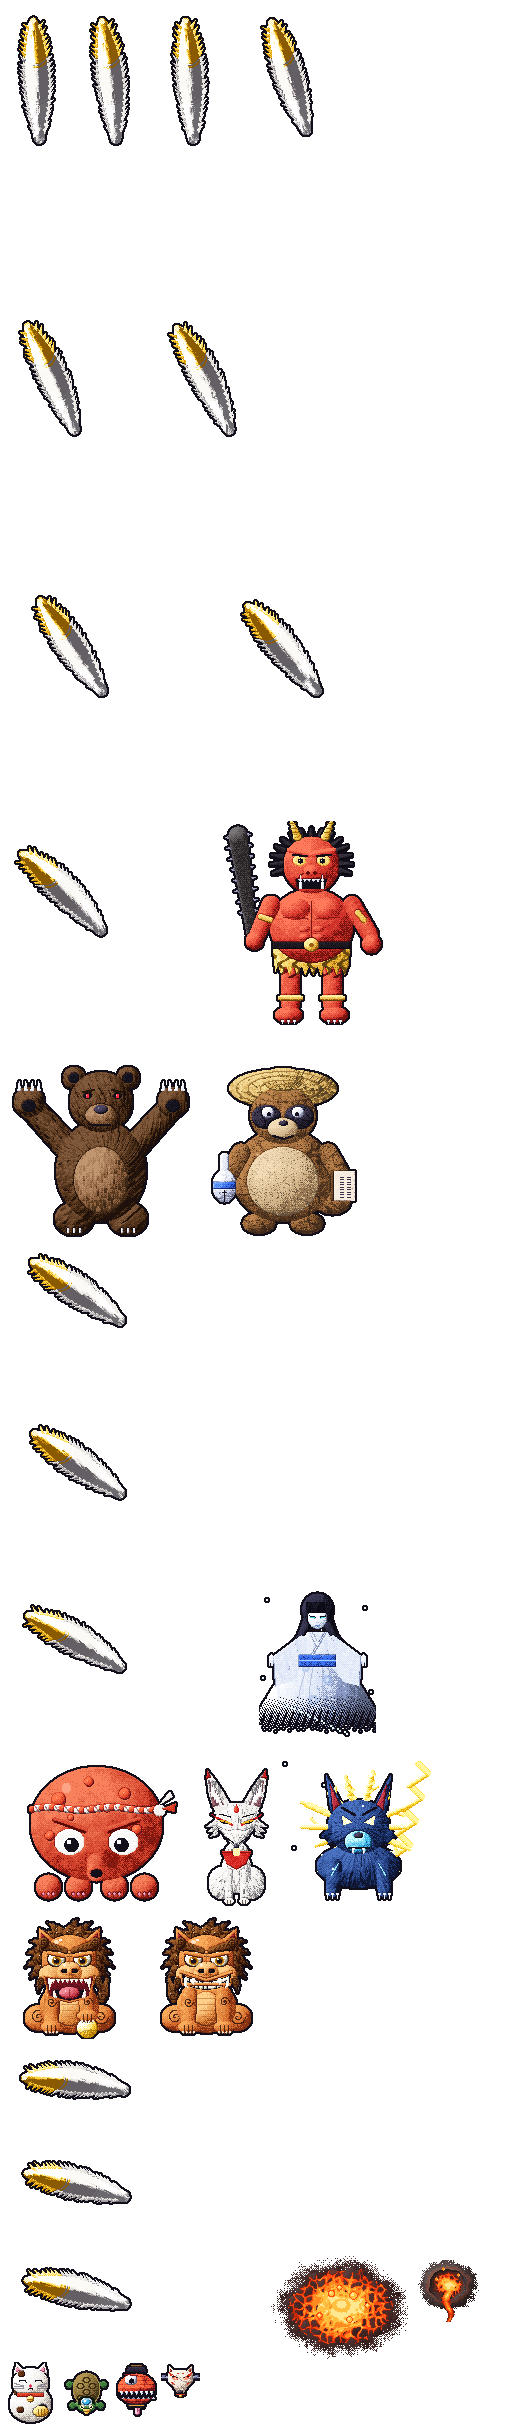
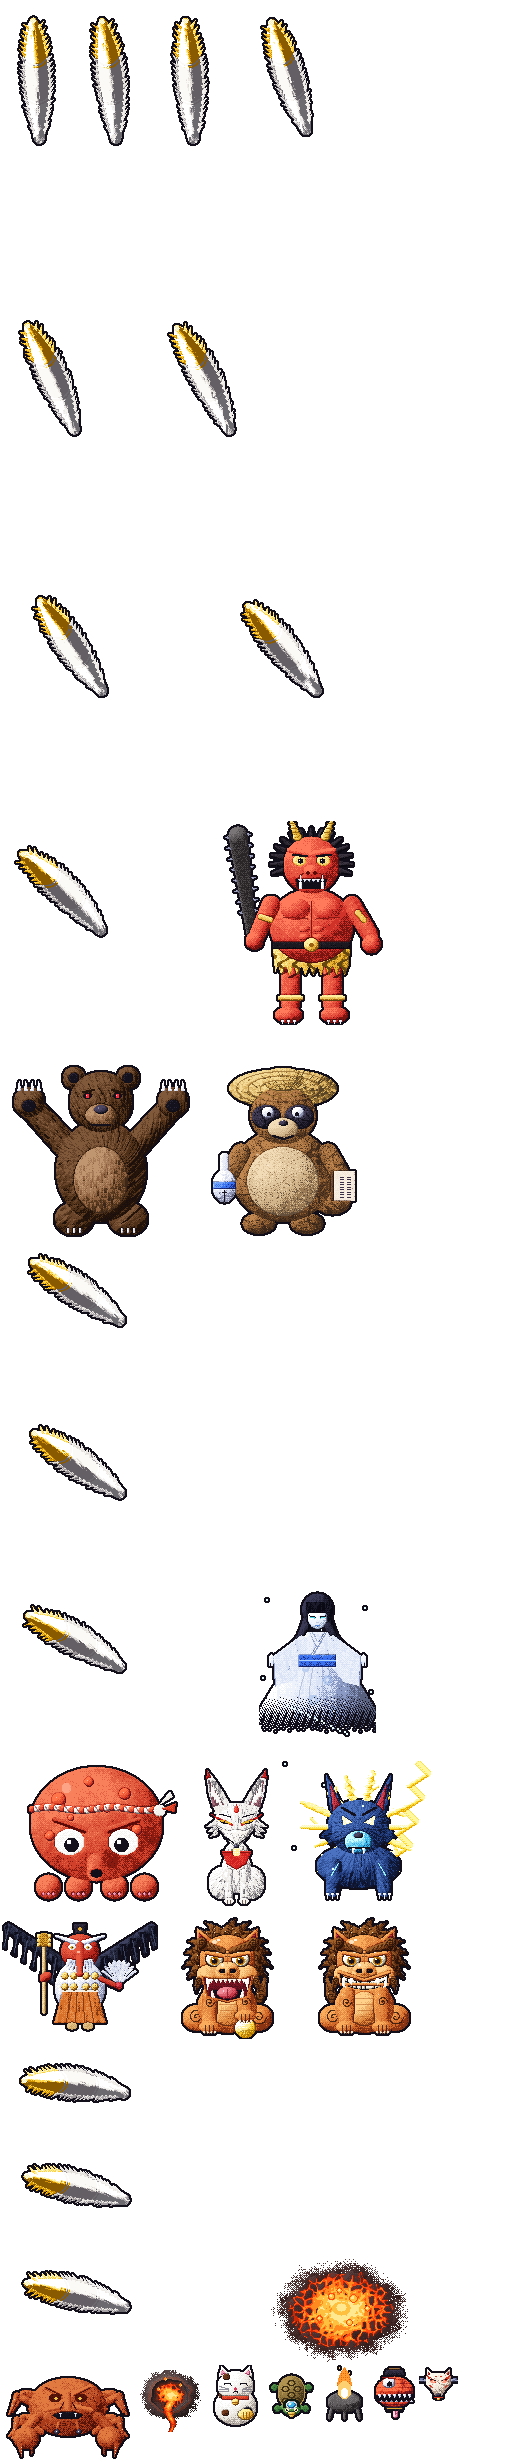
Hiroshima enemies at 540 px: chiyogami orizuru, Seto oysters and their pearl, Miyajima shamoji tsukumogami, momiji manjū, shore stone lanterns, the Heike crab's samurai face, Sankibō the great tengu of Misen and his braziers
Claude-Session: https://claude.ai/code/session_01MRa5UEHufJmpkQZTQUStvb

diff --git a/src/game/enemyArt.js b/src/game/enemyArt.js
@@ -61,6 +61,10 @@ export const CITY_ANIMS = {
   imp: [four('imp'), 8], kamado: [four('kamado'), 6], saru: [four('saru'), 10],
   boil: [['boil_0', 'boil_1'], 10], mudboil: [['mudboil_0', 'mudboil_1'], 5],
   ...Object.fromEntries(['red', 'blue', 'green'].map((c) => [`oke_${c}`, [four(`oke_${c}`), 4]])),
+  // Hiroshima
+  tsuru: [four('tsuru'), 9], shamoji: [four('shamoji'), 7], heike: [four('heike'), 6],
+  sankibo: [four('sankibo'), 5], brazier: [four('brazier'), 9],
+  ...Object.fromEntries(['red', 'blue', 'green'].map((c) => [`manju_${c}`, [four(`manju_${c}`), 6]])),
 };
 
 /** Kyūbi's tails: how many swaying frames each one has in the atlas it comes from. */
